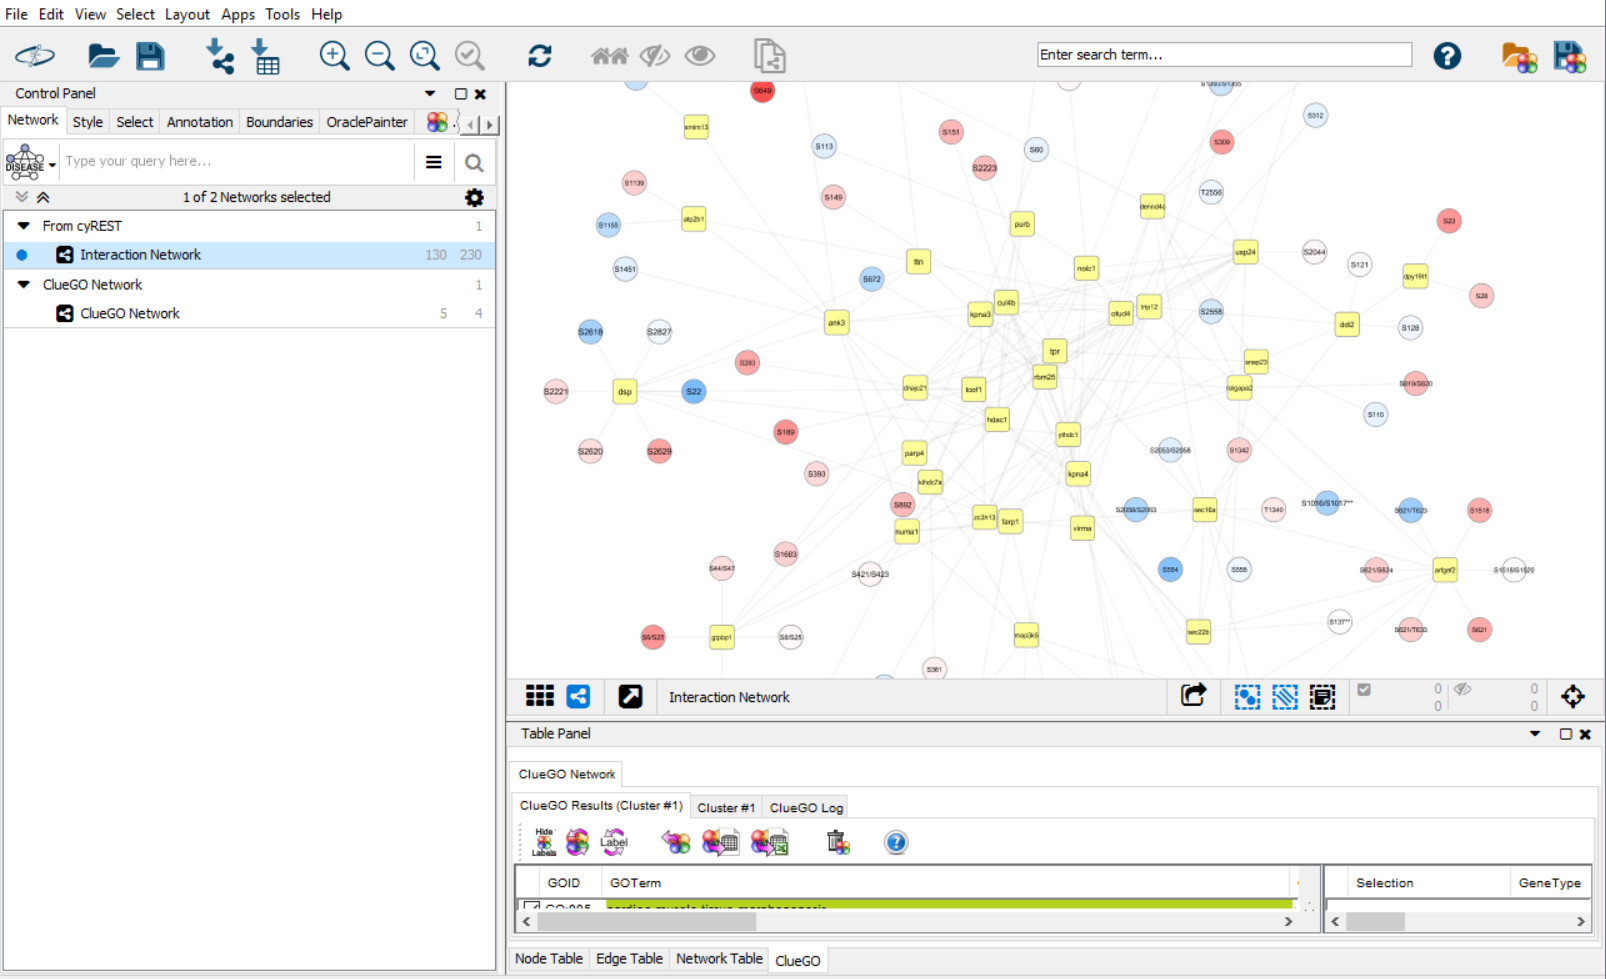
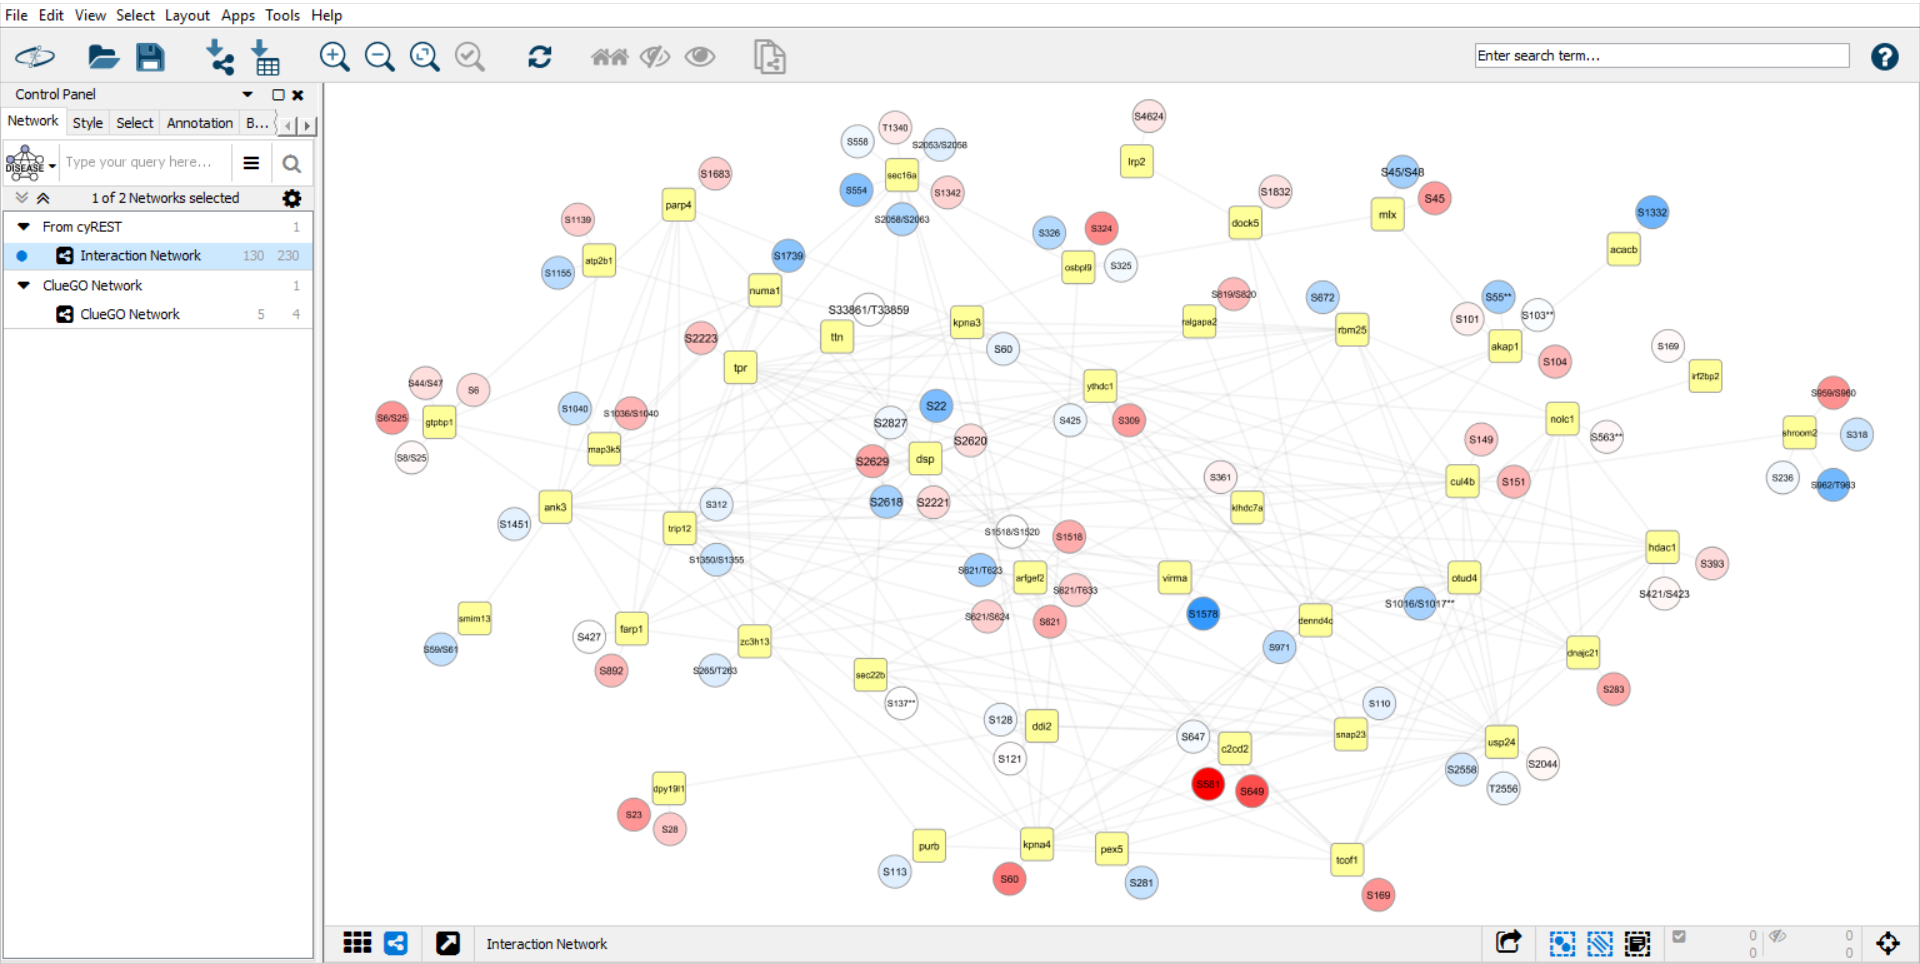
redid layout for result 1

diff --git a/examples/single fold change PTM/README.md b/examples/single fold change PTM/README.md
@@ -30,7 +30,7 @@ Your settings should look like the following when you're done.  Click **Start** 
 ![settings](images/settings.png)
 
 ## Analysis results
-After PINE finishes running, you can go to the **Network** tab in the Cytoscape control panel and select the **Interaction Network**.  This is the single fold change interaction network.  Each yellow square is a gene and the circles represent fold changes for PTMS on the genes' proteins.  Your network should look similar to the image below.  We recommend installing the [yFiles Layout Algorithms plugin](http://apps.cytoscape.org/apps/yfileslayoutalgorithms).  The **yFiles Organic Layout** was used to layout the network below.
+After PINE finishes running, you can go to the **Network** tab in the Cytoscape control panel and select the **Interaction Network**.  This is the single fold change interaction network.  Each yellow square is a gene and the circles represent fold changes for PTMS on the genes' proteins.  Your network should look similar to the image below.  We recommend installing the [yFiles Layout Algorithms plugin](http://apps.cytoscape.org/apps/yfileslayoutalgorithms) and using the yFiles Organic Layout to layout your networks.
 ![results 1](images/results-1.png)
 
 ## Pathway selection
